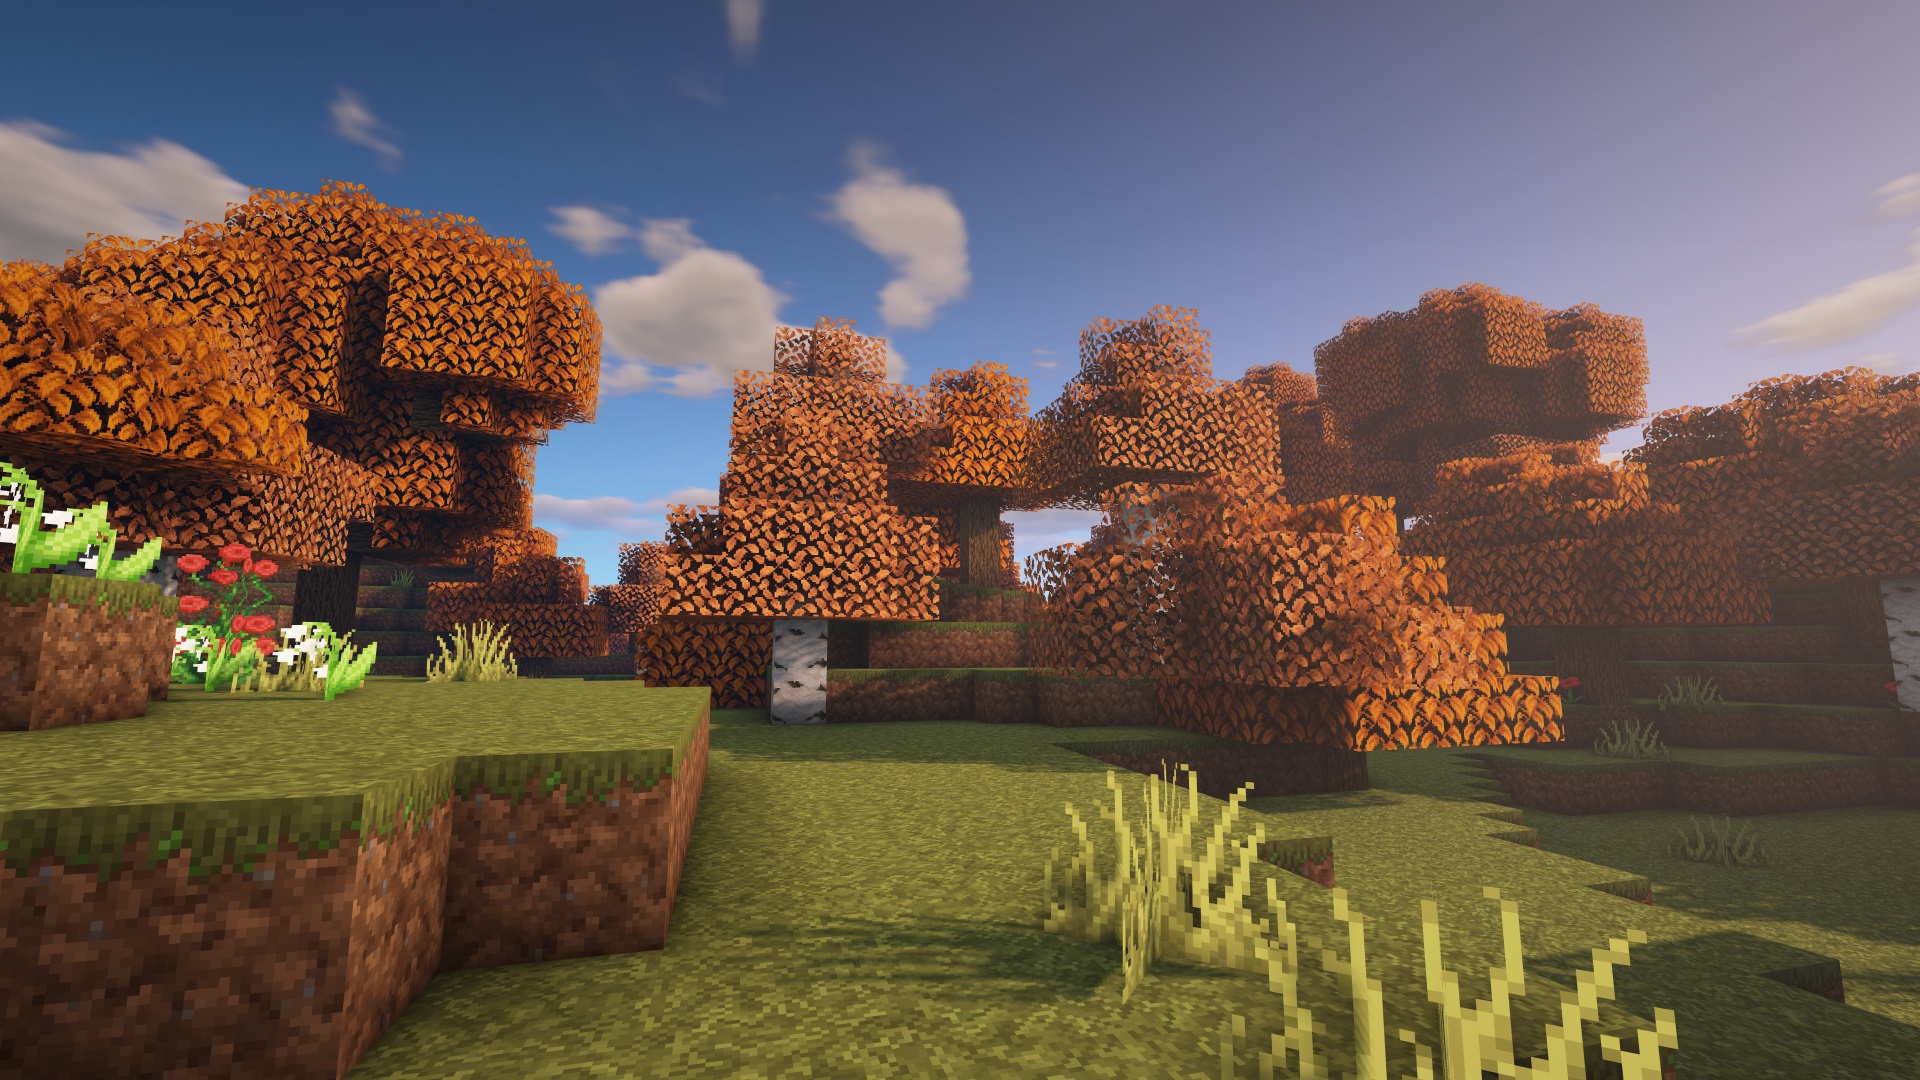
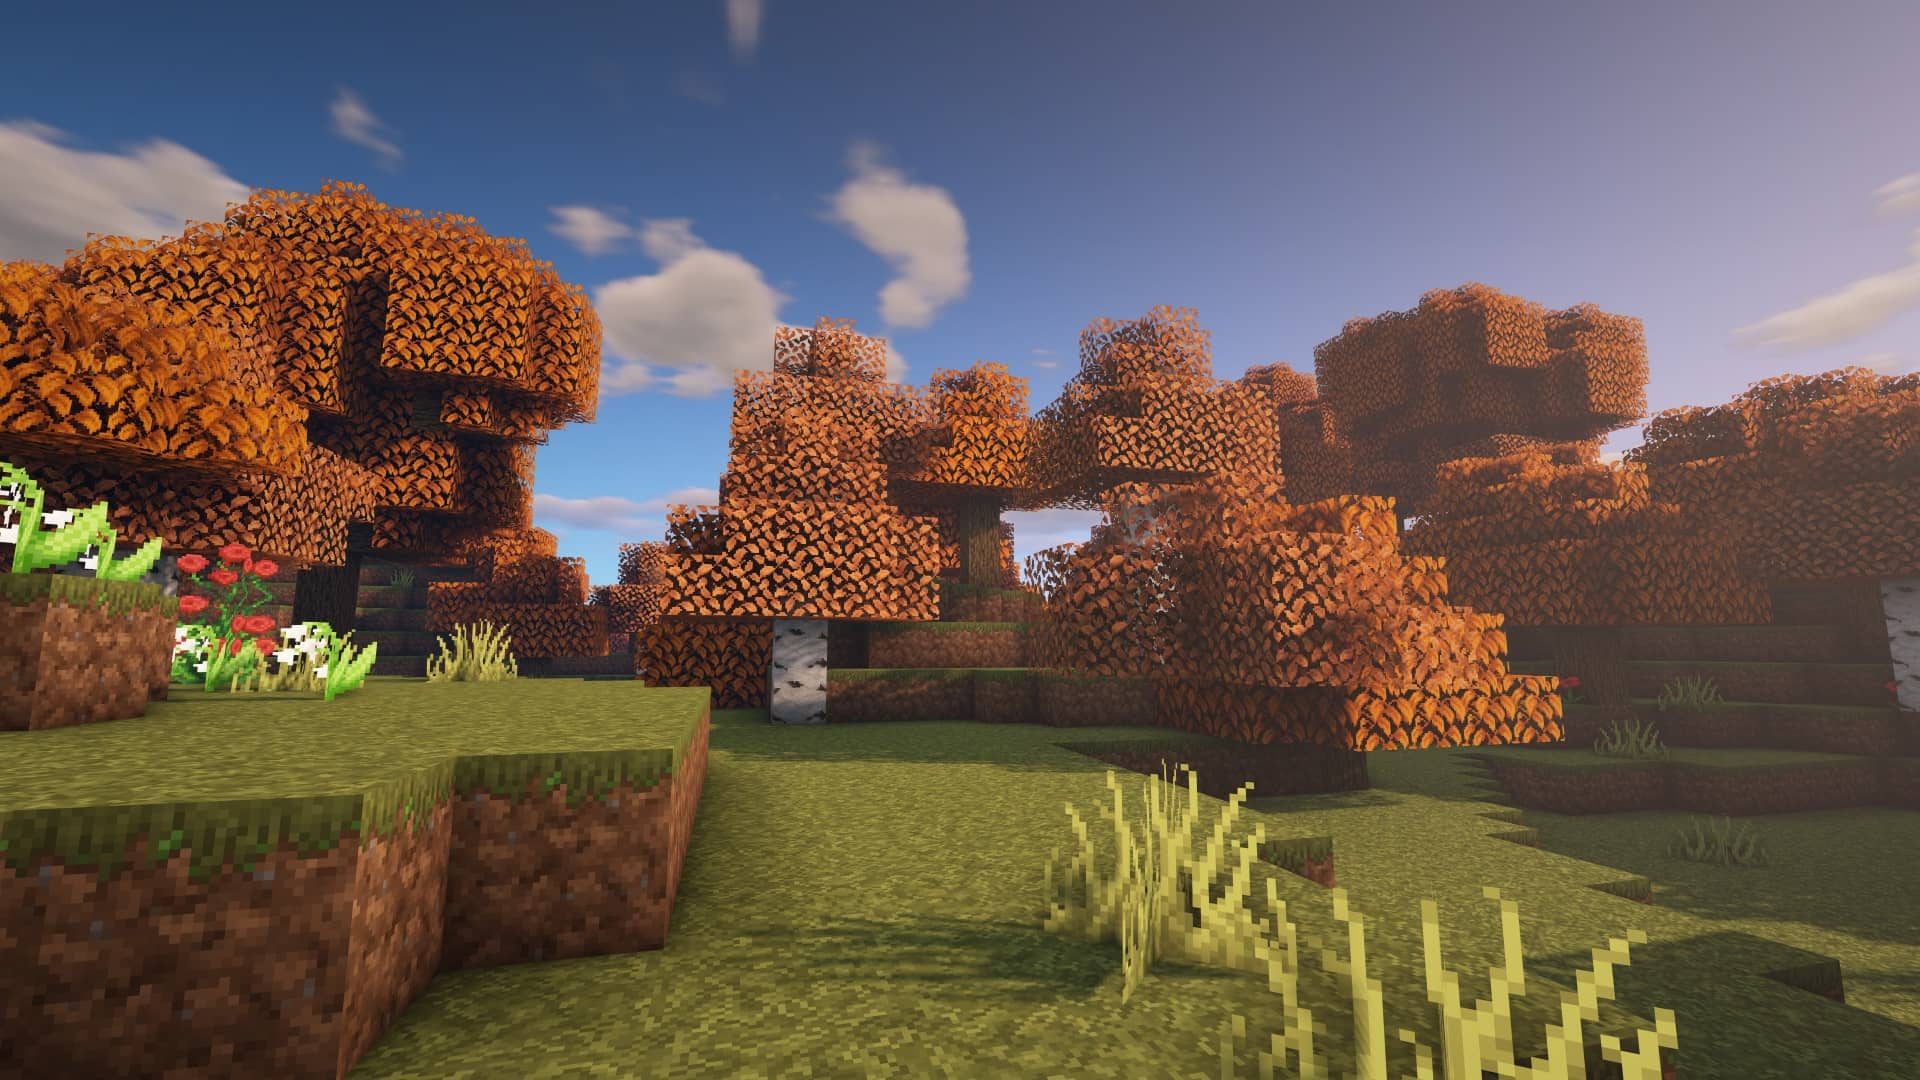
turn most article images into jpg's (speed go brrrrrr)

diff --git a/index.html b/index.html
@@ -401,7 +401,7 @@ title: Home
 			<!-- Compliance Resource Pack Card -->
 			<div class="card card-in">
 				<a href="{{ site.baseurl }}/article/compliance32xDungeons/B1">
-					<img class="card-img-top" src="{{ site.baseurl }}/image/article/compliance32xDungeons/B1.png" alt="Card image">
+					<img class="card-img-top" src="{{ site.baseurl }}/image/article/compliance32xDungeons/B1.jpg" alt="Card image">
 				</a>
 				<div class="card-body">
 					<!-- Card text -->

diff --git a/article/compliance32x/1.16.4/A5.md b/article/compliance32x/1.16.4/A5.md
@@ -3,7 +3,7 @@ title: Compliance 32x 1.16.4 Alpha 5
 permalink: /article/compliance32x/1.16.4/A5
 comments: true
 comments-id: 1.16.4-32x-Alpha-5
-header-img: article/compliance32x/1.16.4-A5.png
+header-img: article/compliance32x/1.16.4-A5.jpg
 
 long_text: Wow, 2020 was a wild ride, wasn't it? Let's kick off 2021 the right way, with a brand new Compliance Alpha! This time around, after the Christmas break, we're bringing you a double-size update. We've added and improved many textures, including the villager, dirt and more. (And if you've noticed a suspicious lack of previously-added 1.17 textures, you would be correct. These have been moved to a separate branch on GitHub and will be properly released once we port the pack to other versions.) <br><br> <strong>DISCLAIMER:</strong> As indicated by the Alpha tag, this version is very work-in-progress, and as such contains some placeholder textures. It is not the final look of the pack; many textures will have to be edited to match the general stylistic direction of the pack. <br><br> Stay tuned for future updates!
 

diff --git a/article/compliance32x/1.16.5/A7.md b/article/compliance32x/1.16.5/A7.md
@@ -3,7 +3,7 @@ title: Compliance 32x 1.16.5 Alpha 7
 permalink: /article/compliance32x/1.16.5/A7
 comments: true
 comments-id: 1.16.5-32x-Alpha-7
-header-img: article/compliance32x/1.16.5-A7.png
+header-img: article/compliance32x/1.16.5-A7.jpg
 
 long_text: Quick! Make HASTE and check out this new Compliance Alpha! You will NETHER believe what was updated, I am CONDITIONAL about that! SWEEP your cursor to the download button and click it right now! I'm sure you will not be disEGGpointed. <br> <s>I will excuse myself now.</s> <br><br> <strong>DISCLAIMER:</strong> As indicated by the Alpha tag, this version is work-in-progress, and as such contains some placeholder textures. It is not the final look of the pack; many textures will have to be edited to match the general stylistic direction of the pack. <br><br> Also, this version is planned to be the last version before we go into the beta phase. Look out for the release, you'll be in for good stuff!
 

diff --git a/article/compliance32x/1.16.4/A4.md b/article/compliance32x/1.16.4/A4.md
@@ -3,7 +3,7 @@ title: Compliance 32x 1.16.4 Alpha 4
 permalink: /article/compliance32x/1.16.4/A4
 comments: true
 comments-id: 1.16.4-32x-Alpha-4
-header-img: article/compliance32x/1.16.4-A4.png
+header-img: article/compliance32x/1.16.4-A4.jpg
 
 long_text: As we're approaching Christmas and the end of the year, we've decided to give you beautiful people an early present! In Alpha 4 we've overhauled all regular logs, added missing ores and more. We hope you're going to like this last update before Christmas! <br><br> <strong>DISCLAIMER:</strong> As indicated by the Alpha tag, this version is very work-in-progress, and as such contains some placeholder textures. It is not the final look of the pack; many textures will have to be edited to match the general stylistic direction of the pack. <br><br> Stay tuned for future updates!
 

diff --git a/article/compliance32x/1.16.4/A6.md b/article/compliance32x/1.16.4/A6.md
@@ -3,7 +3,7 @@ title: Compliance 32x 1.16.4 Alpha 6
 permalink: /article/compliance32x/1.16.4/A6
 comments: true
 comments-id: 1.16.4-32x-Alpha-6
-header-img: article/compliance32x/1.16.4-A6.png
+header-img: article/compliance32x/1.16.4-A6.jpg
 
 long_text: What's this? Another alpha? Why yes, indeed it is! This update has probably the highest added-to-changed texture ratio out of all the alphas, so please sit back and enjoy all the new textures we've added thanks to our awesome community! <br><br> <strong>DISCLAIMER:</strong> As indicated by the Alpha tag, this version is work-in-progress, and as such contains some placeholder textures. It is not the final look of the pack; many textures will have to be edited to match the general stylistic direction of the pack. <br><br> Stay tuned for future updates!
 

diff --git a/article/compliance32xDungeons/B1.md b/article/compliance32xDungeons/B1.md
@@ -3,7 +3,7 @@ title: Compliance Dungeons Beta 1
 permalink: /article/compliance32xDungeons/B1
 comments: true
 comments-id: Dungeons-Beta-1
-header-img: article/compliance32xDungeons/B1.png
+header-img: article/compliance32xDungeons/B1.jpg
 
 long_text: After long development, we are proud to present the first public beta of Compliance Dungeons! Experience your favourite dungeon-crawler game, now with double-resolution textures. In this initial update, we're bringing you block textures for most levels including DLC, as well as miscellaneous level-nonspecific props. <br><br> With this release, the transformation of most Faithful-related projects into Compliance is complete. Here is the changelog comparing this version with Faithful Dungeons Beta 3
 

diff --git a/article/compliance32x/1.16.4/A1.md b/article/compliance32x/1.16.4/A1.md
@@ -3,7 +3,7 @@ title: Compliance 32x 1.16.4 Alpha 1
 permalink: /article/compliance32x/1.16.4/A1
 comments: true
 comments-id: 1.16.4-32x-Alpha-1
-header-img: article/compliance32x/1.16.4-A1.png
+header-img: article/compliance32x/1.16.4-A1.jpg
 
 long_text: The first public alpha of Compliance 32x is here! The sheer amount of added textures is too large to be listed here, so instead have a small preview screenshot. <br><br> <strong>DISCLAIMER:</strong> As indicated by the Alpha tag, this version very work-in-progress, and as such contains a lot of placeholder textures. It is not the final look of the pack; many textures will have to be edited to match the general stylistic direction of the pack. <br><br> Stay tuned for future updates!
 

diff --git a/article/compliance64x/1.16.5/A1.md b/article/compliance64x/1.16.5/A1.md
@@ -3,7 +3,7 @@ title: Compliance 64x 1.16.5 Alpha 1
 permalink: /article/compliance64x/1.16.5/A1
 comments: true
 comments-id: 1.16.5-64x-Alpha-1
-header-img: article/compliance64x/1.16.5-A1.png
+header-img: article/compliance64x/1.16.5-A1.jpg
 
 long_text: The first public alpha of Compliance 64x is here! The sheer amount of added textures is too large to be listed here, so instead have a small preview screenshot. <br><br> <strong>DISCLAIMER:</strong> As indicated by the Alpha tag, this version very work-in-progress, and as such contains a lot of placeholder textures. It is not the final look of the pack; many textures will have to be edited to match the general stylistic direction of the pack. <br><br> Stay tuned for future updates!
 

diff --git a/article/compliance32x/1.16.4/A3.md b/article/compliance32x/1.16.4/A3.md
@@ -3,7 +3,7 @@ title: Compliance 32x 1.16.4 Alpha 3
 permalink: /article/compliance32x/1.16.4/A3
 comments: true
 comments-id: 1.16.4-32x-Alpha-3
-header-img: article/compliance32x/1.16.4-A3.png
+header-img: article/compliance32x/1.16.4-A3.jpg
 
 long_text: Another friday, another Compliance alpha! This time, thanks to our awesome contributors, we're adding items, improving and adding blocks and much more! <br><br> <strong>DISCLAIMER:</strong> As indicated by the Alpha tag, this version is very work-in-progress, and as such contains a some placeholder textures. It is not the final look of the pack; many textures will have to be edited to match the general stylistic direction of the pack. <br><br> Stay tuned for future updates!
 

diff --git a/article/compliance32x/1.16.4/A2.md b/article/compliance32x/1.16.4/A2.md
@@ -3,7 +3,7 @@ title: Compliance 32x 1.16.4 Alpha 2
 permalink: /article/compliance32x/1.16.4/A2
 comments: true
 comments-id: 1.16.4-32x-Alpha-2
-header-img: article/compliance32x/1.16.4-A2.png
+header-img: article/compliance32x/1.16.4-A2.jpg
 
 long_text: The second public alpha of Compliance 32x with many new and changed textures is here! <br><br> <strong>DISCLAIMER:</strong> As indicated by the Alpha tag, this version very work-in-progress, and as such contains a lot of placeholder textures. It is not the final look of the pack; many textures will have to be edited to match the general stylistic direction of the pack. <br><br> Stay tuned for future updates!
 

diff --git a/article/compliance32xAddons/Futura.md b/article/compliance32xAddons/Futura.md
@@ -3,7 +3,7 @@ title: Futura - 32x
 permalink: /article/compliance32xAddons/Futura
 comments: true
 comments-id: Futura
-header-img: article/compliance32xAddons/Futura.png
+header-img: article/compliance32xAddons/Futura.jpg
 
 long_text: 'The futuristic look of netherite armor and tools with visible enchants (max levels).<br>List of visible enchants:<ul><li>Sharpness</li><li>Fire Aspect</li><li>Efficency</li><li>Fortune</li><li>Silk Touch</li><li>Flame</li><li>Mending</li></ul><br><strong>Requires OptiFine Settings: Animated textures, Emissive texturse, Custom Item Textures (CIT)</strong>'
 

diff --git a/article/compliance32xAddons/Futura - Pink Netherite.md b/article/compliance32xAddons/Futura - Pink Netherite.md
@@ -3,7 +3,7 @@ title: Futura - Pink Netherite - 32x
 permalink: /article/compliance32xAddons/Futura%20-%20Pink%20Netherite
 comments: true
 comments-id: FuturaPink
-header-img: article/compliance32xAddons/Futura - Pink Netherite.png
+header-img: article/compliance32xAddons/Futura - Pink Netherite.jpg
 
 long_text: 'Does the same things as normal <a href="./Futura">Futura</a>, but it is pink colored.<br><strong>Requires OptiFine Settings: Animated textures, Emissive texturse, Custom Item Textures (CIT)</strong>'
 
